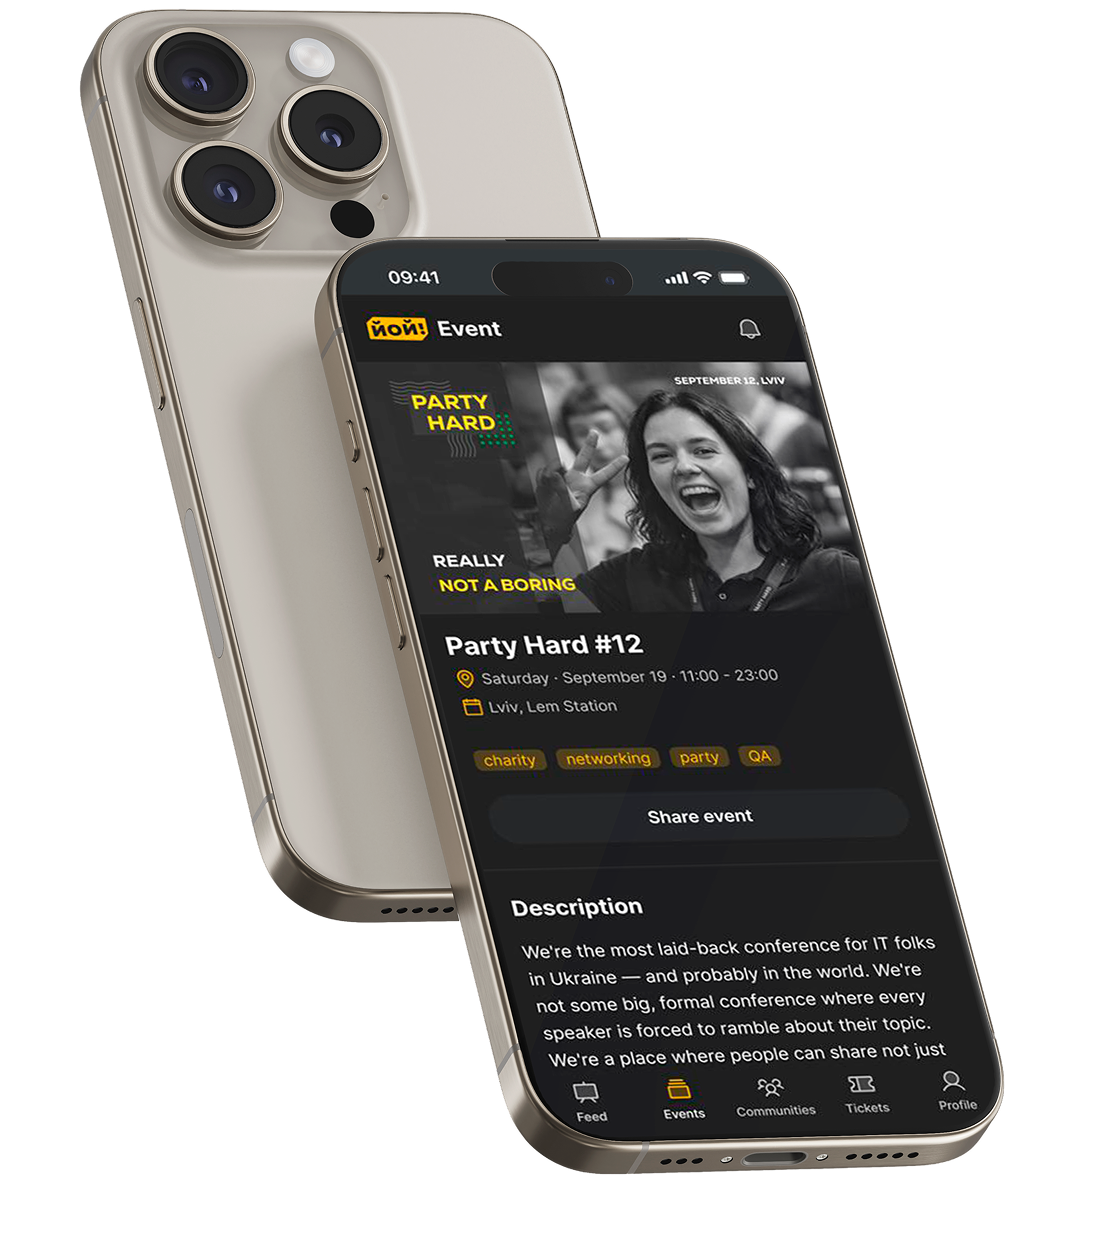
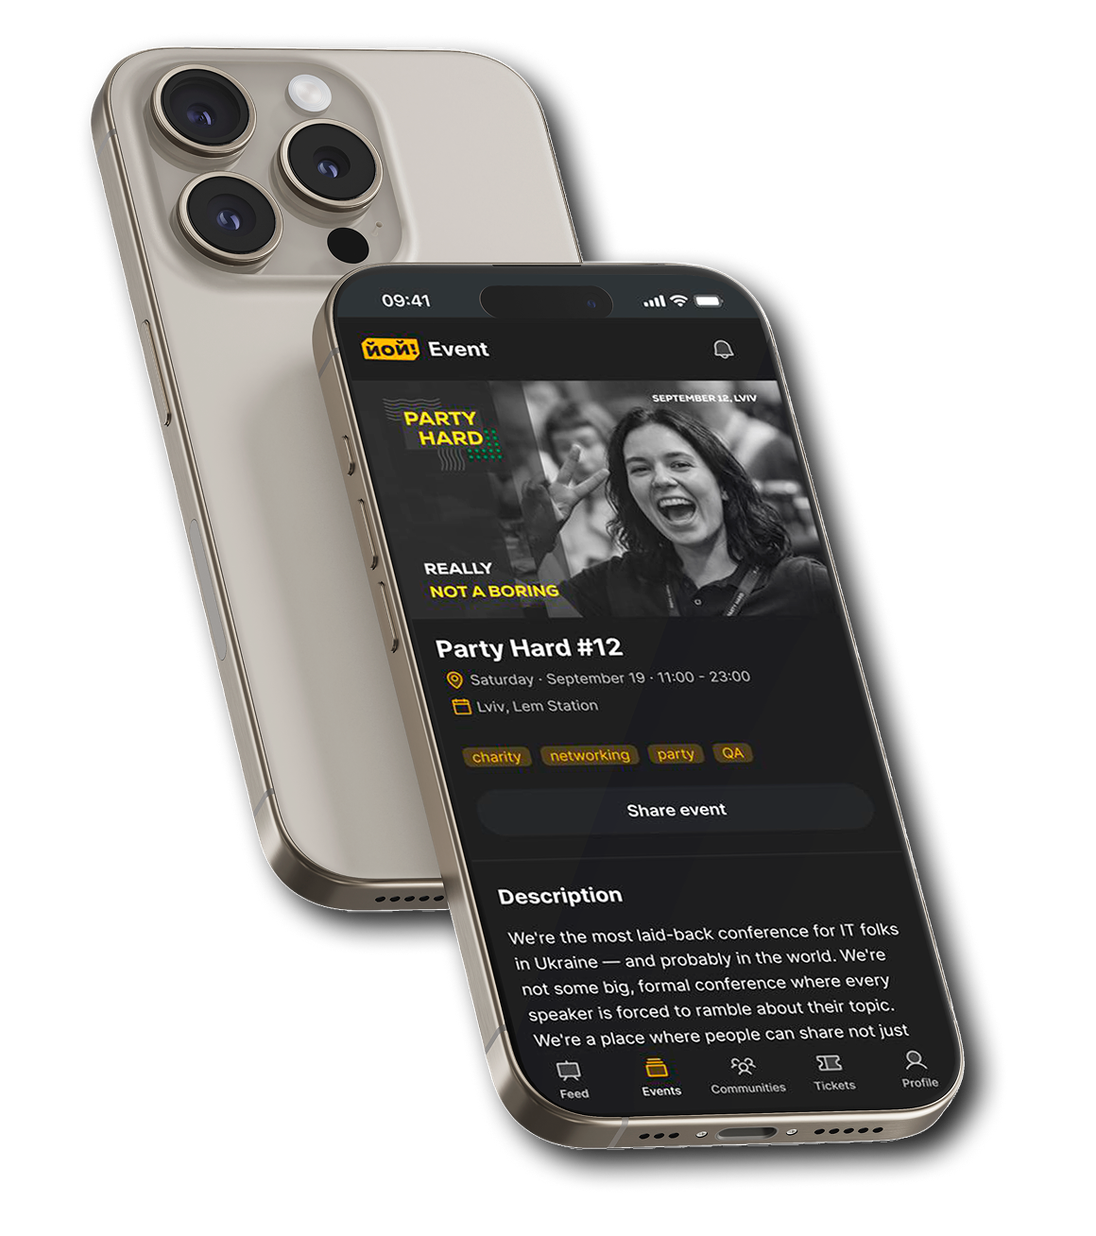
Fix 10 review corrections on YOY: real assets, chessboard bug, full-bleed backgrounds
- Hero/Home mobmocup: reprocessed from Roman's updated source, switched from
  an oversized-crop-cover technique to object-fit:contain (the old crop cut
  off part of the transparent phone-mockup composite); dropped the box-shadow
  and the Home card's background/border so mobmocup shows directly
- Fixed a real bug: .yoy-decision__body--reverse and .yoy-feature--reverse
  rows had DOM order already swapped AND row-reverse applied, cancelling out
  so every "reverse" row rendered identically to a normal row — no chessboard
  alternation was happening anywhere. Normalized DOM order, let --reverse
  alone drive the mirroring
- Replaced the 4 remaining Core Features placeholder images (Community
  created, Basic event information, Fields to fill in, Preview) with Roman's
  real screens; reprocessed UIKit overview from the updated source and fixed
  its aspect-ratio (was cropping under the old 548/320 ratio)
- UIKit heading moved above the text/image row so the image aligns with the
  paragraph's top instead of the heading's
- Fixed another real bug: the Results section's yellow panel
  (.yoy-panel--accent) was being silently overridden by the higher-specificity
  .yoy-section--tint .yoy-panel rule — the #FFB800 fill never actually
  rendered despite being in the CSS
- Made the Challenge and Key Decisions section backgrounds full-bleed to the
  viewport edge (they were capped to the 1280px content column); added the
  Key Decisions gradient fill that was missing entirely
[…]

Changed region(s): [[0.062, 0.0, 0.9307, 0.9531]]

diff --git a/case-yoy.html b/case-yoy.html
@@ -193,7 +193,7 @@
       </section>
 
       <!-- UI: CASE04-RESEARCH-01 | Research + Approach | matches Figma "Research - Approach" (768:13294) -->
-      <section class="yoy-section">
+      <section class="yoy-section yoy-research">
         <h2 class="h2-section yoy-heading" data-reveal>Research</h2>
         <p class="body-large" data-reveal>
           Went through the live product, findings: fragmented flows, networking as a dead end,
@@ -295,12 +295,13 @@
 
           <div class="yoy-decision" data-reveal>
             <h3 class="h3-case-study">Networking: from a dead end to a layer inside the event</h3>
+            <!-- FIX 2026-09-10 (correction pass): DOM order normalized to match
+                 Tickets (cards, then screens) — the previous [screens, cards]
+                 order combined with flex-direction:row-reverse cancelled out,
+                 leaving Networking visually identical to Tickets instead of
+                 mirrored. Cards/screens keep the same DOM order in every
+                 .yoy-decision__body; --reverse alone drives the mirroring. -->
             <div class="yoy-decision__body yoy-decision__body--reverse">
-              <!-- CONTENT: synced 2026-09-10 — real screens, replacing the placeholder -->
-              <div class="yoy-screens">
-                <img loading="lazy" src="assets/case-yoy/networking-1.webp" alt="Networking tag entry during event setup" />
-                <img loading="lazy" src="assets/case-yoy/networking-2.webp" alt="Event page with the networking layer enabled" />
-              </div>
               <div class="yoy-decision__cards" data-reveal-group>
                 <div class="yoy-decision__card">
                   <h4>Problem</h4>
@@ -325,6 +326,11 @@
                   </p>
                 </div>
               </div>
+              <!-- CONTENT: synced 2026-09-10 — real screens, replacing the placeholder -->
+              <div class="yoy-screens">
+                <img loading="lazy" src="assets/case-yoy/networking-1.webp" alt="Networking tag entry during event setup" />
+                <img loading="lazy" src="assets/case-yoy/networking-2.webp" alt="Event page with the networking layer enabled" />
+              </div>
             </div>
           </div>
         </div>
@@ -347,15 +353,20 @@
           </div>
         </div>
 
+        <!-- FIX 2026-09-10 (correction pass): DOM order normalized to
+             [text, screens] like every other .yoy-feature row — the
+             previous [screens, text] order combined with
+             flex-direction:row-reverse cancelled out, so every row
+             (reverse or not) rendered text-left/screens-right with no
+             actual alternation. --reverse alone now drives the mirroring. -->
         <div class="yoy-feature yoy-feature--reverse" data-reveal>
-          <div class="yoy-screens">
-            <img loading="lazy" src="assets/case-yoy/phone-mockup-placeholder.webp" alt="Community created confirmation" />
-            <img loading="lazy" src="assets/case-yoy/phone-mockup-placeholder.webp" alt="Prompt to create the first event" />
-            <img loading="lazy" src="assets/case-yoy/phone-mockup-placeholder.webp" alt="Community dashboard, empty state" />
-          </div>
           <div class="yoy-feature__text">
             <h3 class="h3-case-study">Community created</h3>
             <p class="body-main yoy-body-muted">Success doesn't end the journey, it leads to the next action: creating a first event.</p>
+          </div>
+          <!-- CONTENT: synced 2026-09-10 (correction pass) — real screen, replacing the placeholder -->
+          <div class="yoy-screens">
+            <img loading="lazy" src="assets/case-yoy/community-created.webp" alt="Community created confirmation" />
           </div>
         </div>
 
@@ -366,22 +377,20 @@
               Format (offline / online / hybrid) changes the following fields: location or streaming link.
             </p>
           </div>
+          <!-- CONTENT: synced 2026-09-10 (correction pass) — real screen, replacing the placeholder -->
           <div class="yoy-screens">
-            <img loading="lazy" src="assets/case-yoy/phone-mockup-placeholder.webp" alt="Event format selection screen" />
-            <img loading="lazy" src="assets/case-yoy/phone-mockup-placeholder.webp" alt="Basic event information form" />
-            <img loading="lazy" src="assets/case-yoy/phone-mockup-placeholder.webp" alt="Ticket wave naming field" />
+            <img loading="lazy" src="assets/case-yoy/basic-event-information.webp" alt="Basic event information form" />
           </div>
         </div>
 
         <div class="yoy-feature yoy-feature--reverse" data-reveal>
-          <div class="yoy-screens">
-            <img loading="lazy" src="assets/case-yoy/phone-mockup-placeholder.webp" alt="Optional fields selection, screen 1" />
-            <img loading="lazy" src="assets/case-yoy/phone-mockup-placeholder.webp" alt="Optional fields selection, screen 2" />
-            <img loading="lazy" src="assets/case-yoy/phone-mockup-placeholder.webp" alt="Optional fields selection, screen 3" />
-          </div>
           <div class="yoy-feature__text">
             <h3 class="h3-case-study">Fields to fill in</h3>
             <p class="body-main yoy-body-muted">The organizer decides what data to collect. Minimal by default.</p>
+          </div>
+          <!-- CONTENT: synced 2026-09-10 (correction pass) — real screen, replacing the placeholder -->
+          <div class="yoy-screens">
+            <img loading="lazy" src="assets/case-yoy/fields-to-fill-in.webp" alt="Optional fields selection screen" />
           </div>
         </div>
 
@@ -390,31 +399,36 @@
             <h3 class="h3-case-study">Preview</h3>
             <p class="body-main yoy-body-muted">The organizer sees exactly what the buyer will see. Not a separate screen, the event page seen through a different role.</p>
           </div>
+          <!-- CONTENT: synced 2026-09-10 (correction pass) — real screen, replacing the placeholder -->
           <div class="yoy-screens">
-            <img loading="lazy" src="assets/case-yoy/phone-mockup-placeholder.webp" alt="Event preview screen, screen 1" />
-            <img loading="lazy" src="assets/case-yoy/phone-mockup-placeholder.webp" alt="Event preview screen, screen 2" />
-            <img loading="lazy" src="assets/case-yoy/phone-mockup-placeholder.webp" alt="Event preview screen, screen 3" />
+            <img loading="lazy" src="assets/case-yoy/preview-screen.webp" alt="Event preview screen" />
           </div>
         </div>
 
         <div class="yoy-feature yoy-feature--reverse" data-reveal>
+          <div class="yoy-feature__text">
+            <h3 class="h3-case-study">Event published</h3>
+            <p class="body-main yoy-body-muted">The same page, in admin mode. The role changes in the link, and that's exactly where the organizer's path becomes the attendee's path.</p>
+          </div>
           <!-- CONTENT: synced 2026-09-10 — real screens, replacing the placeholder -->
           <div class="yoy-screens">
             <img loading="lazy" src="assets/case-yoy/event-published-1.webp" alt="Published event page, organizer mode" />
             <img loading="lazy" src="assets/case-yoy/event-published-2.webp" alt="Published event page, attendee mode" />
-          </div>
-          <div class="yoy-feature__text">
-            <h3 class="h3-case-study">Event published</h3>
-            <p class="body-main yoy-body-muted">The same page, in admin mode. The role changes in the link, and that's exactly where the organizer's path becomes the attendee's path.</p>
           </div>
         </div>
       </section>
 
       <!-- UI: CASE04-UIKIT-01 | UI-Kit | matches Figma "UIKit" (768:13407) -->
       <section class="yoy-section yoy-section--tint">
+        <!-- FIX 2026-09-10 (correction pass): heading moved above the row
+             so the image's top now aligns with the paragraph's top,
+             instead of the heading's — per Roman's explicit correction
+             (Figma's own canvas has the image vertically centered
+             against the whole text block, title included; this is a
+             deliberate live-review deviation from that default). -->
+        <h2 class="h2-section yoy-heading" data-reveal>UI-Kit</h2>
         <div class="yoy-uikit" data-reveal-group>
           <div class="yoy-uikit__text">
-            <h2 class="h2-section yoy-heading">UI-Kit</h2>
             <p class="body-large yoy-body-muted">
               The UI Kit was generated with Claude and Figma MCP on the Shadcn library. You can see it as
               it actually was, without trying to make the AI output look more polished than it was. I made
@@ -428,7 +442,7 @@
             </p>
           </div>
           <div class="yoy-media yoy-uikit__media">
-            <img loading="lazy" src="assets/case-yoy/uikit-overview.png" alt="YOY! Events UI Kit overview: components, tokens, and states" />
+            <img loading="lazy" src="assets/case-yoy/uikit-overview.webp" alt="YOY! Events UI Kit overview: components, tokens, and states" />
           </div>
         </div>
       </section>

diff --git a/css/case-yoy.css b/css/case-yoy.css
@@ -55,8 +55,17 @@
   }
 }
 
+/*
+  Fixed 2026-09-10 (correction pass): the tint fill must run edge-to-edge
+  of the viewport even though .yoy-section itself is capped to 1280px at
+  wide desktop widths — box-shadow spread paints past the element's own
+  box without affecting its layout size, clip-path stops that spread
+  from creating horizontal overflow/scrollbars.
+*/
 .yoy-section--tint {
   background-color: var(--yoy-tint);
+  box-shadow: 0 0 0 100vmax var(--yoy-tint);
+  clip-path: inset(0 -100vmax);
 }
 
 .yoy-heading {
@@ -247,27 +256,26 @@
 }
 
 /*
-  Oversized-crop technique (same pattern as .atj-hero__mockup,
-  .uniqkey-dashboard-frame etc.) — verified via get_design_context on
-  798:12743: at the 548x622 desktop container, the source image sits at
-  left:0, top:-19.87%, width:100%, height:132.19%. Same percentages
-  reused at mobile since the container keeps the same aspect-ratio.
+  Fixed 2026-09-10 (correction pass): mobmocup is a transparent-background
+  composite PNG (two angled phones, no fill to crop into), not a photo —
+  the earlier oversized-crop-cover technique clipped part of it. Roman
+  re-exported the source with more headroom and asked to stop cropping,
+  so this now just contains the image inside its slot; no shadow either
+  (the "gradient" instruction was about the Hero section background
+  above, not a shadow under the mockup).
 */
 .yoy-hero__media-frame {
   position: relative;
-  overflow: hidden;
-  border-radius: 12px;
   aspect-ratio: 548 / 622;
-  box-shadow: 8px 8px 16px 0 #1f1f1f;
+  display: flex;
+  align-items: center;
+  justify-content: center;
 }
 
 .yoy-hero__media-frame img {
-  position: absolute;
-  left: 0;
-  top: -19.87%;
   width: 100%;
-  height: 132.19%;
-  max-width: none;
+  height: 100%;
+  object-fit: contain;
   display: block;
 }
 
@@ -363,12 +371,14 @@
   display: grid;
   grid-template-columns: 1fr;
   gap: 16px;
+  margin-top: 16px;
 }
 
 @media (min-width: 1024px) {
   .yoy-facts {
     grid-template-columns: repeat(3, 1fr);
     gap: 24px;
+    margin-top: 24px;
   }
 }
 
@@ -416,16 +426,16 @@
 
 /* ---------- Research / Approach (768:13294) ---------- */
 
+/*
+  Fixed 2026-09-10 (correction pass): logos stretch edge-to-edge of the
+  content column with equal spacing between them — space-between on a
+  single non-wrapping row, instead of the earlier wrap+gap cluster.
+*/
 .yoy-logos {
   display: flex;
-  flex-wrap: wrap;
-  gap: 16px;
-}
-
-@media (min-width: 1024px) {
-  .yoy-logos {
-    gap: 24px;
-  }
+  align-items: center;
+  justify-content: space-between;
+  width: 100%;
 }
 
 /*
@@ -447,20 +457,67 @@
   }
 }
 
+/*
+  Fixed 2026-09-10 (correction pass): consistent gap between every block
+  in this section, matching the heading-to-paragraph gap established
+  above (.yoy-heading margin-bottom, 16px/24px) — several transitions
+  here previously had zero top margin. Scoped to .yoy-research so it
+  doesn't touch .yoy-subheading/.yoy-panel/.yoy-body-muted usages
+  elsewhere on the page that already have their own deliberate spacing.
+*/
+.yoy-research > .yoy-subheading,
+.yoy-research > .yoy-logos,
+.yoy-research > .yoy-logos + .yoy-body-muted,
+.yoy-research > .yoy-body-muted + .yoy-panel,
+.yoy-research > .yoy-two-col + .yoy-media {
+  margin-top: 16px;
+}
+
+@media (min-width: 1024px) {
+  .yoy-research > .yoy-subheading,
+  .yoy-research > .yoy-logos,
+  .yoy-research > .yoy-logos + .yoy-body-muted,
+  .yoy-research > .yoy-body-muted + .yoy-panel,
+  .yoy-research > .yoy-two-col + .yoy-media {
+    margin-top: 24px;
+  }
+}
+
 /* ---------- Key Decisions (768:13317) ---------- */
 
+/*
+  Fixed 2026-09-10 (correction pass): same edge-to-edge bug as
+  .yoy-section--tint above, plus the gradient fill verified via
+  get_design_context on 768:13317 (was flat #1a1a1a, missing the
+  gradient entirely). box-shadow can't paint a gradient, so the bleed
+  here uses a ::before breakout instead — sized to 100vw via the
+  left:50%/-50vw margin trick, sitting behind the content (z-index:-1).
+  Edge-to-edge and the panel's previous rounded corners are mutually
+  exclusive at wide viewports, so the radius is dropped.
+*/
 .yoy-panel--dark {
-  background-color: #1a1a1a;
-  border-radius: 24px;
+  position: relative;
+  z-index: 0;
   padding: 32px var(--page-px);
   display: flex;
   flex-direction: column;
   gap: 24px;
 }
 
+.yoy-panel--dark::before {
+  content: "";
+  position: absolute;
+  z-index: -1;
+  top: 0;
+  bottom: 0;
+  left: 50%;
+  width: 100vw;
+  margin-left: -50vw;
+  background-image: linear-gradient(141.72deg, #111111 0%, #1d1c1c 100%);
+}
+
 @media (min-width: 1024px) {
   .yoy-panel--dark {
-    border-radius: 48px;
     padding: 48px 80px;
   }
 }
@@ -603,12 +660,27 @@
   }
 }
 
+/*
+  Fixed 2026-09-10 (correction pass): aspect-ratio now matches the
+  updated uikit-overview.webp's own dimensions (822x410, ~2:1) instead
+  of the old 548/320 (1.71:1) ratio, which cropped the new asset under
+  object-fit:cover.
+*/
 .yoy-uikit__media img {
-  aspect-ratio: 548 / 320;
+  aspect-ratio: 822 / 410;
 }
 
 /* ---------- Results (768:13414) ---------- */
 
+/*
+  Fixed 2026-09-10 (correction pass): the Results panel sits inside a
+  .yoy-section--tint section, and `.yoy-section--tint .yoy-panel`
+  (higher specificity via the descendant combinator) was silently
+  overriding this panel's own accent color back to --yoy-bg — the
+  #FFB800 fill from get_design_context on 768:13415 was in the CSS but
+  never actually rendered. Re-declared here at matching specificity.
+*/
+.yoy-section--tint .yoy-panel--accent,
 .yoy-panel--accent {
   background-color: var(--yoy-accent);
   color: #242424;

diff --git a/css/home.css b/css/home.css
@@ -915,26 +915,15 @@
 }
 
 /*
-  YOY! Events — added 2026-09-09 alongside case-yoy.html. Unlike the
-  ATJ/Uniqkey cards, there's no laptop dashboard screenshot to crop yet,
-  just the same phone mockup used as a placeholder throughout the case
-  page itself (see css/case-yoy.css header) — shown here at its natural
-  aspect ratio, contained and centered, on the case's own dark/yellow
-  brand background instead of the laptop-composite technique.
+  YOY! Events — added 2026-09-09, reworked 2026-09-10 (correction pass):
+  Roman confirmed no background/border box behind the mockup — mobmocup
+  (a transparent-background composite PNG) shows directly on the card,
+  same simple contained-image approach as .case-card__media--atj2 below.
 */
-.case-card__media--yoy {
-  background-color: #1a1a1a;
-  border: 1px solid rgba(255, 184, 0, 0.25);
-  border-radius: 16px;
-  overflow: hidden;
-}
-
 .case-card__media--yoy img {
   position: static;
-  width: auto;
-  height: 92%;
-  max-width: 90%;
-  margin: 4% auto 0;
+  width: 100%;
+  height: 100%;
   object-fit: contain;
 }
 
@@ -1064,6 +1053,7 @@
   color: var(--color-white);
   max-width: 1120px;
   margin: 0 auto 32px;
+  text-align: center;
 }
 
 .reviews-carousel {
